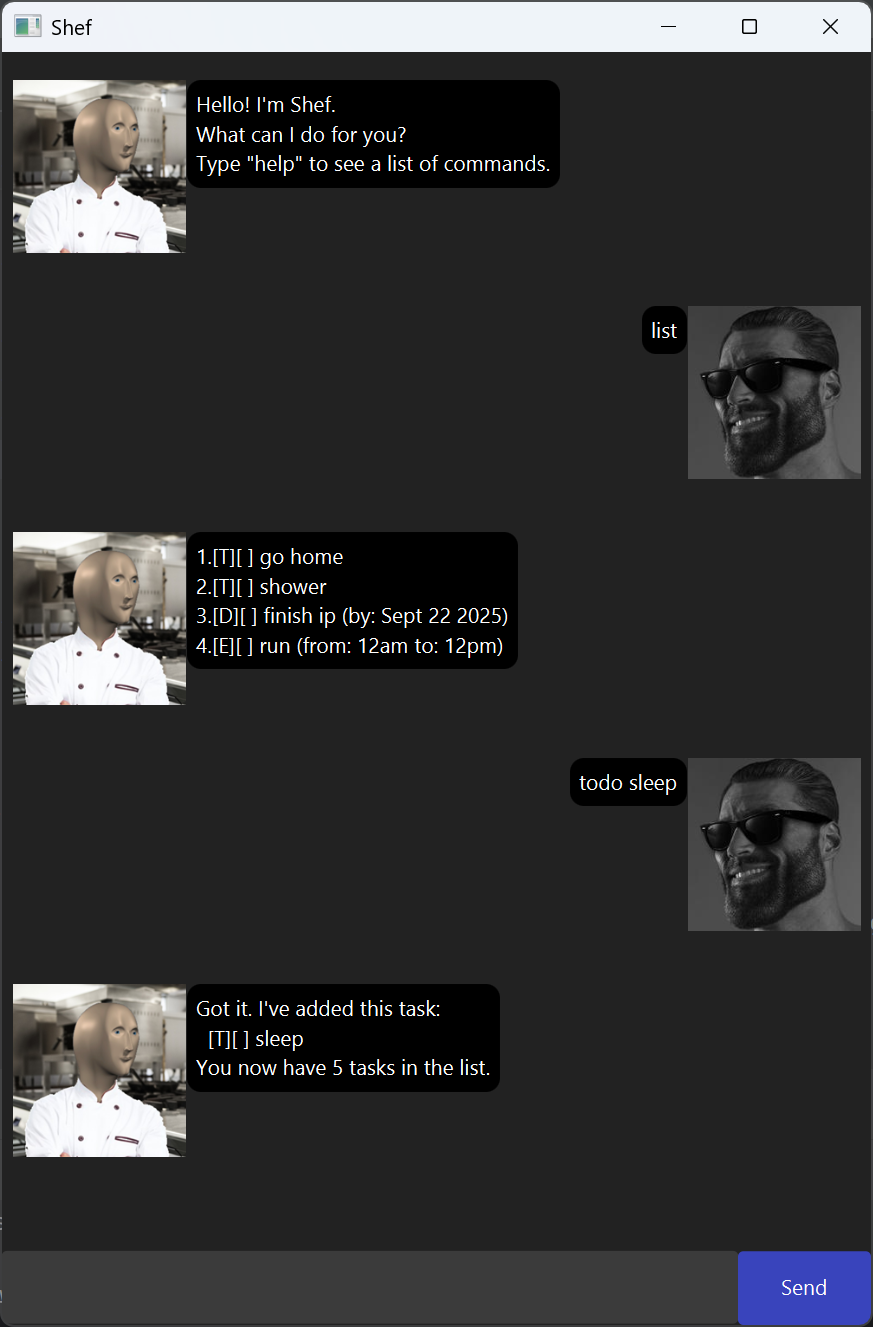
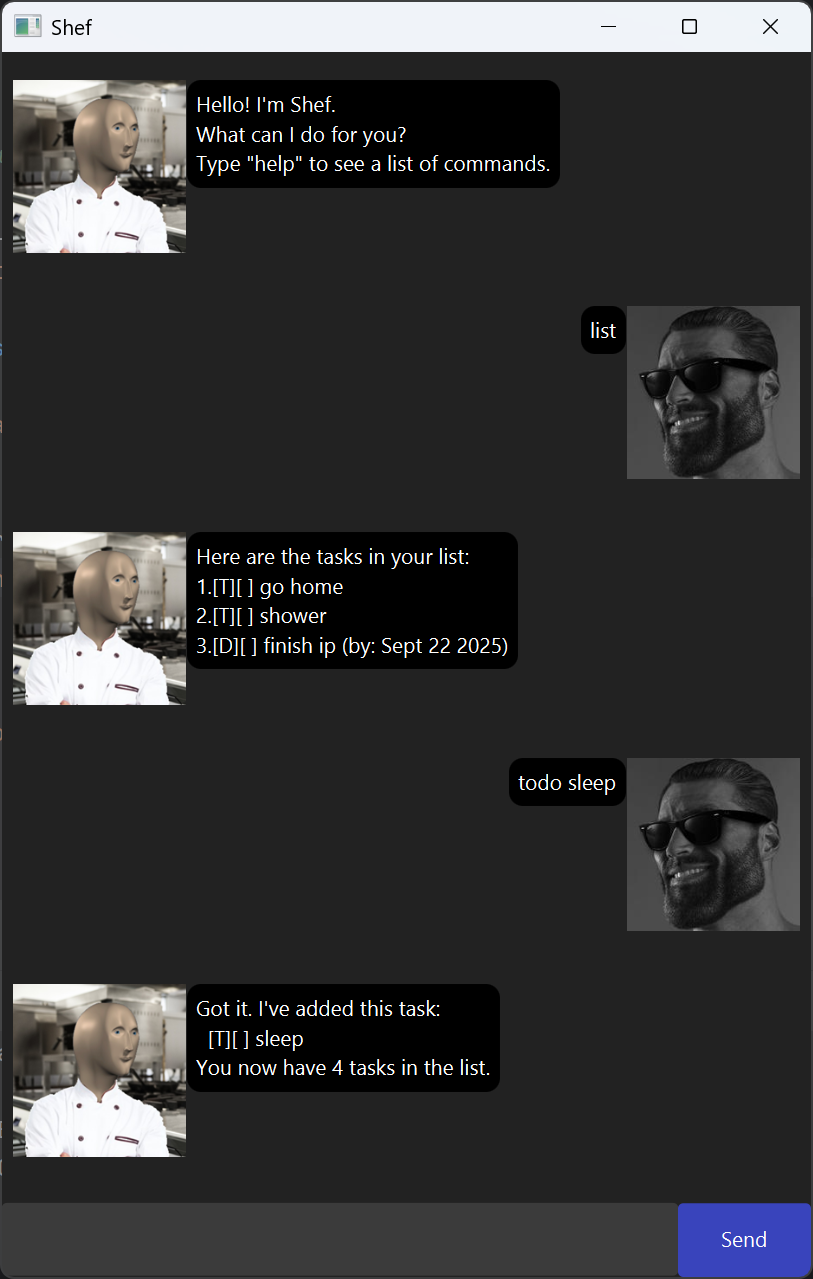
Update list command output

diff --git a/src/main/java/shef/command/ListCommand.java b/src/main/java/shef/command/ListCommand.java
@@ -19,7 +19,7 @@ public class ListCommand extends Command {
 
     @Override
     public String execute(TaskList tasks, Storage storage) {
-        return tasks.toString();
+        return "Here are the tasks in your list:\n" + tasks.toString();
     }
 
     @Override
